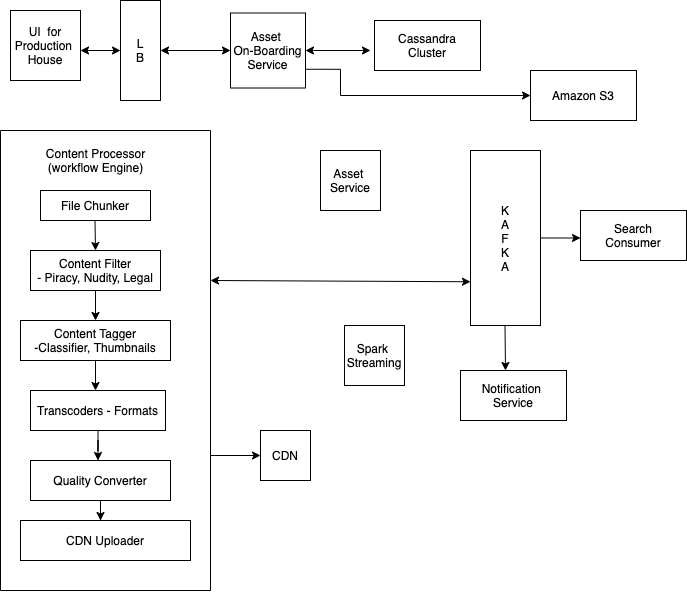
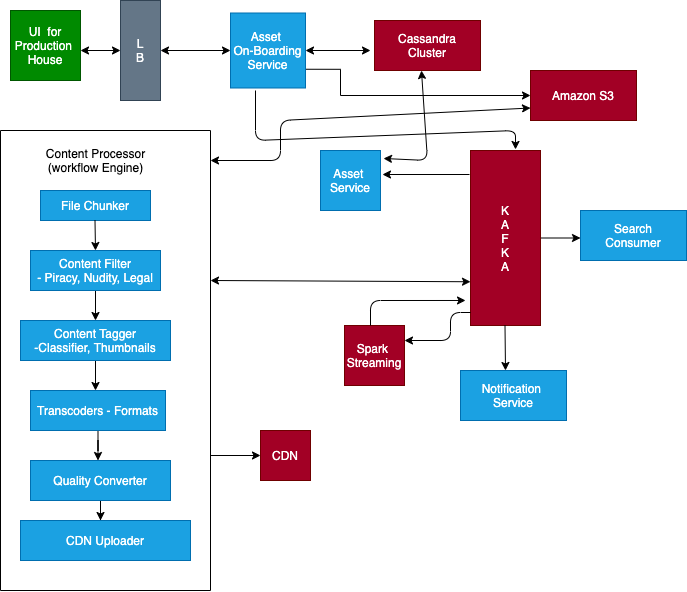
video streaming architecture

diff --git a/src/com/hld/video-streaming-service/video-streaming-service-readme.md b/src/com/hld/video-streaming-service/video-streaming-service-readme.md
@@ -66,3 +66,83 @@
 
         This is called Adaptive Bitrate Streaming and client take cares of this.(which file to 
         request and play).
+
+
+### Architecture of Video streaming System
+
+ - #### Services to Production Houses 
+    1. #####UI For production Houses
+        - This component helps in uploading the content.Multiple ways content can be uploaded.
+        - For a small video, there could be upload button wherein somebody's uploading the files
+          from their own disk.That can work out for a video of couple of minutes.
+          But for movies that's practical not possible.
+        - So the raw file the production house will give out will be 20,30,40 GB or big.
+          These are the highest definition content with good audio quality.Then later 
+          will be trans coded into different kinds of formats.
+        - So there would some sftp server running where all the content will be present.
+          They will just give the link to the sftp server, some username and password.
+        - UI for production house will talk to this asset on-boarding service, give it the url,
+          and Asset on-boarding service would then call up wherever that content is hosted,maybe
+          another s3 bucket,or may be some sftp server, pull the content from there and 
+          put it into its own S3(kind of cheap database).
+        - Using Cassandra to store all the information about all the videos(who is uploading,
+          description,images attached to it,thumbnails,tags,etc).
+        - Once the file is in our S3,Asset on-boarding service would send out an event into kafka
+          saying I have taken the file and put it in my s3.
+        - There are a lot of consumers sitting on kafka. 
+          - Content-Processor - workflow engine which does a lot of things to that files that have 
+            been uploaded for it to be available in various kinds of formats,various bandwidths,etc...
+            - File chunker - There will be chunks that video should be divided in.
+              And all the processing that is done on the video would also be done in chunks.
+              So chunk the file at the beginning.So that we can parallelize all the further efforts.
+              All this is done by File Chunker. (Divides into multiple segments - could size based segment,
+              time base segment, or random based segment)
+            - Content processor also uses kafka to send out various events and to invoke the further 
+              processes.For each of these chunks or segments , it calls Content Filter.
+            - Content Filter - So in each video platform , there are a certain kind of things that are not allowed
+              For example - If upload pirates of the Caribbean movie on to youtube , I cannot do it
+              because of legal reasons.(Piracy not allowed). All checks can happen parallel on the chunks
+            - Content Tagger - Triggers after the completion of Content filter. When video is being 
+              uploaded , production house will give out some tags by which that can be searched.
+              But there could be some things that we can infer out of it.For example if there is 
+              football video, we might want to tag it saying particular player in that.Content tagger 
+              goes through the whole video tries to extract some parts of it which can be converted 
+              into like English tags which can then be searched upon.It also tries to create thumbnails of the video.
+            - It creates a list of thumbnails which could be used for AB testing and trying to figure out which 
+              is the best one.
+            - Transcoder -  Transcoding is basically an activity of converting one file type into another file type.
+              So the raw video that was uploaded whose chunks we are processing those would be converted 
+              into multiple file formats like AVI,MP4,etc.
+              Post this transcoding effort, each file(chunk) will be split into multiple sub-files(sub-chunks)
+              Now we have four files(chunks) instead of one.So each of the four will be sent out for 
+              individual transformations next.
+            - Quality Converter - People have different kind of bandwidths they are on.So we might want to have
+              multiple formats which requires a different bandwidth. So each of these chunks will now be  converted into
+              multiple formats basis the bandwidth we have.
+            - Now once all of that is done, then we basically upload individual components(chunks) onto the CDN.
+              These thousands or millions of chunks will be created.  
+            - This is file processing cycle
+            - Now once that is done, and even while it is happening, all the events are put into kafka.
+              But kafka is not used for invoking the further processors, also for more other things.
+              
+    2. #### Spark Streaming Process        
+        - Content Tagger tags each chunk with a certain tag.All of that information could be put into kafka.
+          There could be spark streaming process that runs across all these chunks for a particular movie ID.
+          and aggregating all the tags that are received.It can then filter out top 10 tags and then 
+          tag the movie with those tags.Even though we are segregating all of that information across a lot 
+          of worker nodes but at the end, it is aggregated at one point in time.
+          That aggregation could be done through spark streaming.Looks like a Map-Reduce.
+          
+    3. #### Asset Service    
+        - When all of that is done, again, even when CDN upload is complete, it will send out events into kafka.
+          There will be Asset Service that will be reading all of these events.Because somewhere we need 
+          to keep track of what is happening with the whole movie.How many chunks are there ?
+          which chunk is in what status?So all of that is being handled by Asset Service and it is 
+          storing all the information about all the chunks into this cassandra.
+        - Once it identifies that everything is complete and all the chunks have been processed completely,
+          it will send out notification through, again routing through kafka via notification service 
+          to the person who has actually uploaded the image, saying your movie is now processed.
+        
+    4. #### Search Consumer
+     
+              
